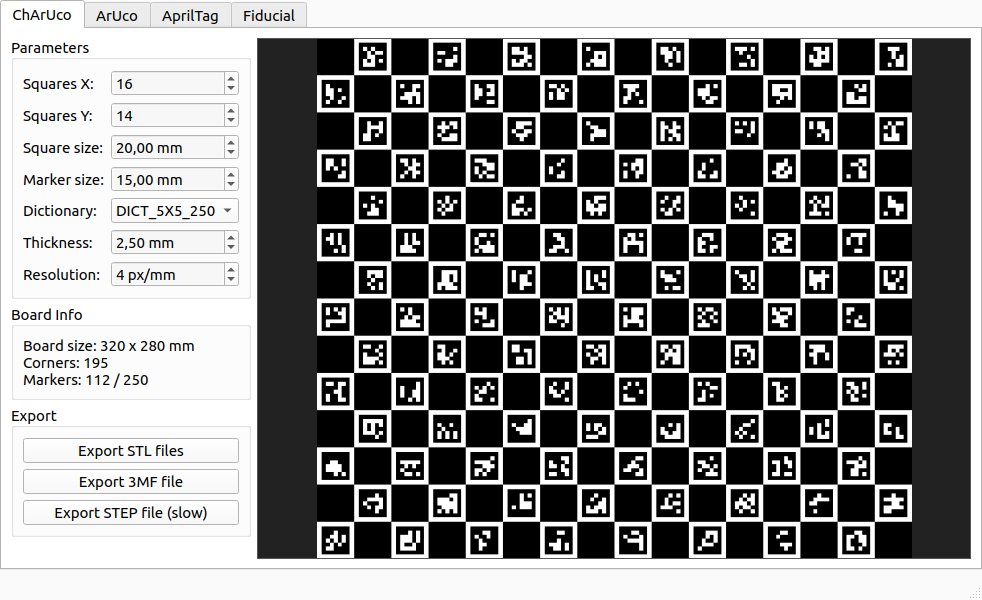
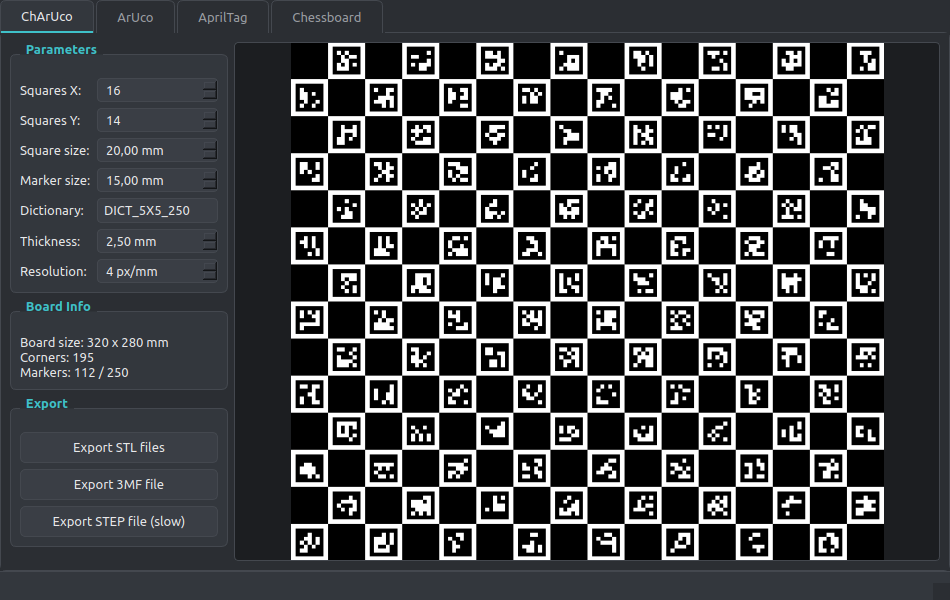
Apply a modern dark theme to the GUI

diff --git a/gui/theme.py b/gui/theme.py
@@ -1,0 +1,134 @@
+"""App-wide theme: modern dark palette (charcoal + teal accent), applied
+once at the QApplication level in main.py.
+"""
+
+BACKGROUND = "#2b2e33"
+PANEL = "#33373d"
+INPUT_BG = "#3a3e45"
+TEXT = "#e8e8ea"
+MUTED_TEXT = "#9a9da3"
+ACCENT = "#3fc1c9"
+ACCENT_DIM = "#2d4a4c"
+BORDER = "#44484f"
+CANVAS = "#1c1e21"
+
+STYLESHEET = f"""
+QMainWindow, QWidget {{
+    background: {BACKGROUND};
+    color: {TEXT};
+    font-size: 13px;
+}}
+
+QGroupBox {{
+    background: {PANEL};
+    border: 1px solid {BORDER};
+    border-radius: 6px;
+    margin-top: 12px;
+    padding-top: 14px;
+    font-weight: 600;
+}}
+QGroupBox::title {{
+    subcontrol-origin: margin;
+    left: 10px;
+    padding: 0 4px;
+    color: {ACCENT};
+}}
+
+QLabel {{
+    color: {TEXT};
+    background: transparent;
+}}
+
+QTabWidget::pane {{
+    border: 1px solid {BORDER};
+    background: {PANEL};
+    border-radius: 6px;
+    top: -1px;
+}}
+QTabBar::tab {{
+    background: {BACKGROUND};
+    color: {MUTED_TEXT};
+    padding: 8px 20px;
+    border: 1px solid {BORDER};
+    border-bottom: none;
+    border-top-left-radius: 6px;
+    border-top-right-radius: 6px;
+    margin-right: 2px;
+}}
+QTabBar::tab:selected {{
+    background: {PANEL};
+    color: {TEXT};
+    border-bottom: 2px solid {ACCENT};
+}}
+QTabBar::tab:hover {{
+    color: {TEXT};
+}}
+
+QPushButton {{
+    background: {INPUT_BG};
+    color: {TEXT};
+    border: 1px solid {BORDER};
+    border-radius: 5px;
+    padding: 7px 14px;
+}}
+QPushButton:hover {{
+    background: {ACCENT_DIM};
+    border-color: {ACCENT};
+}}
+QPushButton:pressed {{
+    background: {ACCENT};
+    color: {CANVAS};
+}}
+QPushButton:disabled {{
+    background: {BACKGROUND};
+    color: #5a5d63;
+    border-color: {BORDER};
+}}
+
+QSpinBox, QDoubleSpinBox, QComboBox {{
+    background: {INPUT_BG};
+    color: {TEXT};
+    border: 1px solid {BORDER};
+    border-radius: 4px;
+    padding: 3px 6px;
+    selection-background-color: {ACCENT};
+}}
+QSpinBox:focus, QDoubleSpinBox:focus, QComboBox:focus {{
+    border: 1px solid {ACCENT};
+}}
+QComboBox::drop-down {{
+    border: none;
+    width: 20px;
+}}
+QComboBox QAbstractItemView {{
+    background: {PANEL};
+    color: {TEXT};
+    border: 1px solid {BORDER};
+    selection-background-color: {ACCENT};
+    selection-color: {CANVAS};
+    outline: none;
+}}
+
+QStatusBar {{
+    background: {PANEL};
+    color: {MUTED_TEXT};
+    border-top: 1px solid {BORDER};
+}}
+
+QProgressBar {{
+    background: {INPUT_BG};
+    border: 1px solid {BORDER};
+    border-radius: 4px;
+    text-align: center;
+    color: {TEXT};
+}}
+QProgressBar::chunk {{
+    background-color: {ACCENT};
+    border-radius: 3px;
+}}
+"""
+
+PREVIEW_STYLE = (
+    f"background: {CANVAS}; color: {MUTED_TEXT}; "
+    f"border: 1px solid {BORDER}; border-radius: 4px;"
+)

diff --git a/gui/gui_common.py b/gui/gui_common.py
@@ -14,6 +14,7 @@ from PyQt6.QtGui import QImage, QPixmap
 
 from export.geometry import build_meshes
 from export.mesh_export import StepExportWorker
+from .theme import PREVIEW_STYLE
 
 
 class BoardTab(QWidget):
@@ -62,7 +63,7 @@ class BoardTab(QWidget):
         self._preview.setSizePolicy(
             QSizePolicy.Policy.Expanding, QSizePolicy.Policy.Expanding
         )
-        self._preview.setStyleSheet("background: #222; color: #aaa; border: 1px solid #555;")
+        self._preview.setStyleSheet(PREVIEW_STYLE)
         layout.addWidget(self._preview, stretch=1)
 
         self._update_info()

diff --git a/main.py b/main.py
@@ -8,6 +8,7 @@ from boards.board_types import ARUCO_DICTS, APRILTAG_DICTS
 from gui.tab_charuco import CharucoTab
 from gui.tab_aruco_grid import ArucoGridTab
 from gui.tab_fiducial import FiducialTab
+from gui.theme import STYLESHEET
 
 
 class MainWindow(QMainWindow):
@@ -47,6 +48,8 @@ class MainWindow(QMainWindow):
 
 if __name__ == "__main__":
     app = QApplication(sys.argv)
+    app.setStyle("Fusion")
+    app.setStyleSheet(STYLESHEET)
     window = MainWindow()
     window.show()
     sys.exit(app.exec())
